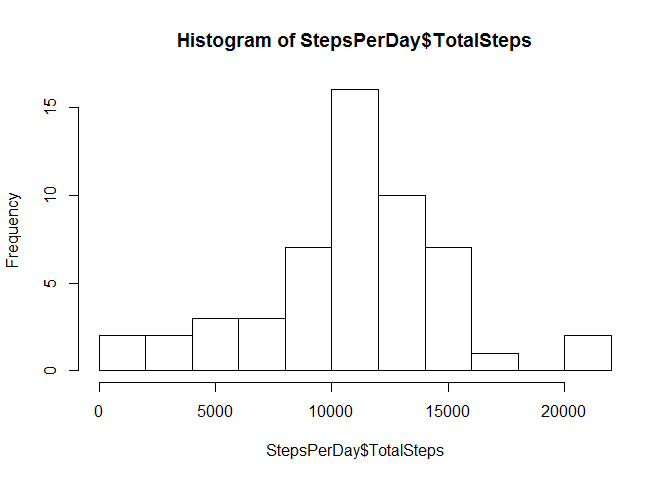
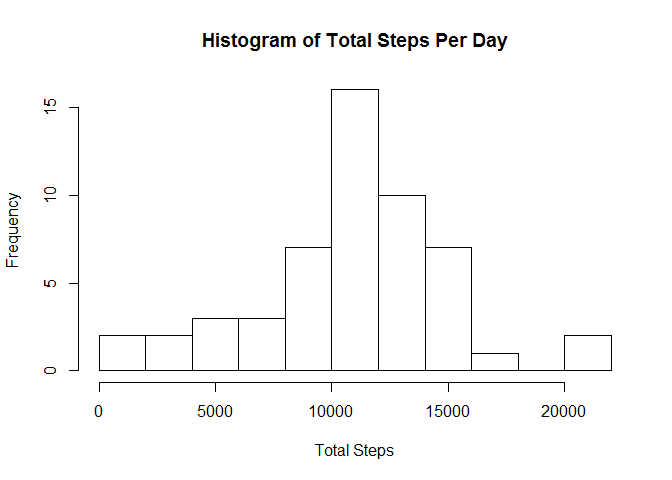
Assignment Submission 1

Changed region(s): [[0.25, 0.0625, 0.8125, 0.125], [0.4062, 0.9062, 0.6562, 0.9688]]

diff --git a/PA1_template.html b/PA1_template.html
@@ -67,7 +67,7 @@ img {
 <div id="loading-and-preprocessing-the-data" class="section level2">
 <h2>Loading and preprocessing the data</h2>
 <p>Prepare R Environment &amp; load necessary library</p>
-<pre class="r"><code>#library(data.table)
+<pre class="r"><code>library(ggplot2)
 library(dplyr)</code></pre>
 <pre><code>## Warning: package 'dplyr' was built under R version 3.2.1</code></pre>
 <pre><code>## 
@@ -81,9 +81,7 @@ library(dplyr)</code></pre>
 ## 
 ##     intersect, setdiff, setequal, union</code></pre>
 <p>The source data is loaded into a data frame ‘data’ for futher analysis</p>
-<pre class="r"><code>#setwd(&quot;c:/coursera&quot;)
-data &lt;- read.csv(&quot;activity.csv&quot;)
-#data &lt;- data.table(data)</code></pre>
+<pre class="r"><code>data &lt;- read.csv(&quot;activity.csv&quot;)</code></pre>
 <p>Explore the data frame to have a feel of the data</p>
 <pre class="r"><code>str(data)</code></pre>
 <pre><code>## 'data.frame':    17568 obs. of  3 variables:
@@ -105,17 +103,17 @@ data &lt;- read.csv(&quot;activity.csv&quot;)
 <div id="what-is-mean-total-number-of-steps-taken-per-day" class="section level2">
 <h2>What is mean total number of steps taken per day?</h2>
 <p>Total number of steps per day</p>
-<pre class="r"><code>StepsPerDay &lt;- data %&gt;% group_by(date) %&gt;% summarise(TotalSteps=sum(steps))
-hist(StepsPerDay$TotalSteps, breaks = 10)</code></pre>
[1 lines of base64/hex data omitted]
+<pre class="r"><code>StepsPerDay &lt;- data %&gt;% 
+                group_by(date) %&gt;% 
+                summarise(TotalSteps=sum(steps))
+
+hist(StepsPerDay$TotalSteps, breaks = 10,xlab='Total Steps',main='Histogram of Total Steps Per Day')</code></pre>
[1 lines of base64/hex data omitted]
 <p>Mean &amp; Median Number of Steps taken</p>
-<pre class="r"><code>mean(StepsPerDay$steps, na.rm = TRUE)</code></pre>
-<pre><code>## Warning in mean.default(StepsPerDay$steps, na.rm = TRUE): argument is not
-## numeric or logical: returning NA</code></pre>
-<pre><code>## [1] NA</code></pre>
-<pre class="r"><code>median(StepsPerDay$steps, na.rm = TRUE)</code></pre>
-<pre><code>## Warning in is.na(x): is.na() applied to non-(list or vector) of type 'NULL'</code></pre>
-<pre><code>## NULL</code></pre>
+<pre class="r"><code>mean(StepsPerDay$TotalSteps, na.rm = TRUE)</code></pre>
+<pre><code>## [1] 10766.19</code></pre>
+<pre class="r"><code>median(StepsPerDay$TotalSteps, na.rm = TRUE)</code></pre>
+<pre><code>## [1] 10765</code></pre>
 </div>
 <div id="what-is-the-average-daily-activity-pattern" class="section level2">
 <h2>What is the average daily activity pattern?</h2>
@@ -124,8 +122,8 @@ hist(StepsPerDay$TotalSteps, breaks = 10)</code></pre>
                     group_by(interval) %&gt;%
                     summarise(AverageSteps=mean(steps,na.rm=T),TotalSteps=sum(steps,na.rm=T))
 
-with(StepsPerInterval,plot(interval,AverageSteps, type = 'l'))</code></pre>
[1 lines of base64/hex data omitted]
+with(StepsPerInterval,plot(interval,AverageSteps, type = 'l', xlab='Interval', ylab='Average Steps', main='Average Steps for 5 Minutes Interval'))</code></pre>
[1 lines of base64/hex data omitted]
 <p>Interval with highest number of steps</p>
 <pre class="r"><code>StepsPerInterval[which.max(StepsPerInterval$TotalSteps),1]</code></pre>
 <pre><code>## Source: local data frame [1 x 1]
@@ -143,18 +141,40 @@ with(StepsPerInterval,plot(interval,AverageSteps, type = 'l'))</code></pre>
             inner_join(StepsPerInterval,by='interval') %&gt;%
             mutate(NewSteps=ifelse(is.na(steps),round(AverageSteps),steps))</code></pre>
 <p>New Imputed dataset</p>
-<pre class="r"><code>Impute &lt;- Impute[,c(2,3,5)]
+<pre class="r"><code>Impute &lt;- Impute[,c(2,3,6)]
 summary(Impute)</code></pre>
-<pre><code>##       date               interval        TotalSteps     
-##  Min.   :2012-10-01   Min.   :   0.0   Min.   :    0.0  
-##  1st Qu.:2012-10-16   1st Qu.: 588.8   1st Qu.:  131.8  
-##  Median :2012-10-31   Median :1177.5   Median : 1808.0  
-##  Mean   :2012-10-31   Mean   :1177.5   Mean   : 1981.3  
-##  3rd Qu.:2012-11-15   3rd Qu.:1766.2   3rd Qu.: 2800.2  
-##  Max.   :2012-11-30   Max.   :2355.0   Max.   :10927.0</code></pre>
+<pre><code>##       date               interval         NewSteps     
+##  Min.   :2012-10-01   Min.   :   0.0   Min.   :  0.00  
+##  1st Qu.:2012-10-16   1st Qu.: 588.8   1st Qu.:  0.00  
+##  Median :2012-10-31   Median :1177.5   Median :  0.00  
+##  Mean   :2012-10-31   Mean   :1177.5   Mean   : 37.38  
+##  3rd Qu.:2012-11-15   3rd Qu.:1766.2   3rd Qu.: 27.00  
+##  Max.   :2012-11-30   Max.   :2355.0   Max.   :806.00</code></pre>
+<p>Total Steps per day (Imputed dataset)</p>
+<pre class="r"><code>ImputePerDay &lt;- Impute %&gt;% 
+                group_by(date) %&gt;% 
+                summarise(NewTotalSteps=sum(NewSteps))
+
+hist(ImputePerDay$NewTotalSteps, breaks=10, xlab='Total Steps', main='Histogram of Total Steps Per Day (Imputed Dataset)')</code></pre>
[1 lines of base64/hex data omitted]
+<p>Mean &amp; Median Number of Steps taken (Imputed dataset)</p>
+<pre class="r"><code>mean(ImputePerDay$NewTotalSteps, na.rm = TRUE)</code></pre>
+<pre><code>## [1] 10765.64</code></pre>
+<pre class="r"><code>median(ImputePerDay$NewTotalSteps, na.rm = TRUE)</code></pre>
+<pre><code>## [1] 10762</code></pre>
 </div>
 <div id="are-there-differences-in-activity-patterns-between-weekdays-and-weekends" class="section level2">
 <h2>Are there differences in activity patterns between weekdays and weekends?</h2>
+<p>Label the dates with Weekday &amp; Weekend</p>
+<pre class="r"><code>Impute$Days &lt;- weekdays(Impute$date)
+Impute$Days &lt;- ifelse(Impute$Days=='Sunday'|Impute$Days=='Saturday','weekend','weekday')
+
+AvgImpute &lt;- Impute %&gt;% 
+                group_by(Days, interval) %&gt;%
+                summarise(TotalSteps=sum(NewSteps),AvgSteps=mean(NewSteps))</code></pre>
+<p>Time Series Plot</p>
+<pre class="r"><code>ggplot(AvgImpute, aes(interval,AvgSteps)) + geom_line() + facet_wrap(~Days,2,1) + ggtitle(&quot;Avarage Steps Taken\n(For Weekday &amp; Weekend)&quot;)</code></pre>
[1 lines of base64/hex data omitted]
 </div>
 
 

diff --git a/PA1_template.md b/PA1_template.md
@@ -5,7 +5,7 @@
 Prepare R Environment & load necessary library
 
 ```r
-#library(data.table)
+library(ggplot2)
 library(dplyr)
 ```
 
@@ -29,9 +29,7 @@ library(dplyr)
 The source data is loaded into a data frame 'data' for futher analysis
 
 ```r
-#setwd("c:/coursera")
 data <- read.csv("activity.csv")
-#data <- data.table(data)
 ```
 
 Explore the data frame to have a feel of the data
@@ -72,8 +70,11 @@ data$date <- as.Date(data$date)
 Total number of steps per day
 
 ```r
-StepsPerDay <- data %>% group_by(date) %>% summarise(TotalSteps=sum(steps))
-hist(StepsPerDay$TotalSteps, breaks = 10)
+StepsPerDay <- data %>% 
+                group_by(date) %>% 
+                summarise(TotalSteps=sum(steps))
+
+hist(StepsPerDay$TotalSteps, breaks = 10,xlab='Total Steps',main='Histogram of Total Steps Per Day')
 ```
 
 ![](PA1_template_files/figure-html/unnamed-chunk-5-1.png) 
@@ -81,28 +82,19 @@ hist(StepsPerDay$TotalSteps, breaks = 10)
 Mean & Median Number of Steps taken
 
 ```r
-mean(StepsPerDay$steps, na.rm = TRUE)
+mean(StepsPerDay$TotalSteps, na.rm = TRUE)
 ```
 
 ```
-## Warning in mean.default(StepsPerDay$steps, na.rm = TRUE): argument is not
-## numeric or logical: returning NA
-```
-
-```
-## [1] NA
+## [1] 10766.19
 ```
 
 ```r
-median(StepsPerDay$steps, na.rm = TRUE)
+median(StepsPerDay$TotalSteps, na.rm = TRUE)
 ```
 
 ```
-## Warning in is.na(x): is.na() applied to non-(list or vector) of type 'NULL'
-```
-
-```
-## NULL
+## [1] 10765
 ```
 
 ## What is the average daily activity pattern?
@@ -113,7 +105,7 @@ StepsPerInterval <- data %>%
                     group_by(interval) %>%
                     summarise(AverageSteps=mean(steps,na.rm=T),TotalSteps=sum(steps,na.rm=T))
 
-with(StepsPerInterval,plot(interval,AverageSteps, type = 'l'))
+with(StepsPerInterval,plot(interval,AverageSteps, type = 'l', xlab='Interval', ylab='Average Steps', main='Average Steps for 5 Minutes Interval'))
 ```
 
 ![](PA1_template_files/figure-html/unnamed-chunk-7-1.png) 
@@ -153,19 +145,66 @@ Impute <- data %>%
 New Imputed dataset
 
 ```r
-Impute <- Impute[,c(2,3,5)]
+Impute <- Impute[,c(2,3,6)]
 summary(Impute)
 ```
 
 ```
-##       date               interval        TotalSteps     
-##  Min.   :2012-10-01   Min.   :   0.0   Min.   :    0.0  
-##  1st Qu.:2012-10-16   1st Qu.: 588.8   1st Qu.:  131.8  
-##  Median :2012-10-31   Median :1177.5   Median : 1808.0  
-##  Mean   :2012-10-31   Mean   :1177.5   Mean   : 1981.3  
-##  3rd Qu.:2012-11-15   3rd Qu.:1766.2   3rd Qu.: 2800.2  
-##  Max.   :2012-11-30   Max.   :2355.0   Max.   :10927.0
+##       date               interval         NewSteps     
+##  Min.   :2012-10-01   Min.   :   0.0   Min.   :  0.00  
+##  1st Qu.:2012-10-16   1st Qu.: 588.8   1st Qu.:  0.00  
+##  Median :2012-10-31   Median :1177.5   Median :  0.00  
+##  Mean   :2012-10-31   Mean   :1177.5   Mean   : 37.38  
+##  3rd Qu.:2012-11-15   3rd Qu.:1766.2   3rd Qu.: 27.00  
+##  Max.   :2012-11-30   Max.   :2355.0   Max.   :806.00
 ```
 
+Total Steps per day (Imputed dataset)
+
+```r
+ImputePerDay <- Impute %>% 
+                group_by(date) %>% 
+                summarise(NewTotalSteps=sum(NewSteps))
+
+hist(ImputePerDay$NewTotalSteps, breaks=10, xlab='Total Steps', main='Histogram of Total Steps Per Day (Imputed Dataset)')
+```
+
+![](PA1_template_files/figure-html/unnamed-chunk-12-1.png) 
+
+Mean & Median Number of Steps taken (Imputed dataset)
+
+```r
+mean(ImputePerDay$NewTotalSteps, na.rm = TRUE)
+```
+
+```
+## [1] 10765.64
+```
+
+```r
+median(ImputePerDay$NewTotalSteps, na.rm = TRUE)
+```
+
+```
+## [1] 10762
+```
 
 ## Are there differences in activity patterns between weekdays and weekends?
+Label the dates with Weekday & Weekend
+
+```r
+Impute$Days <- weekdays(Impute$date)
+Impute$Days <- ifelse(Impute$Days=='Sunday'|Impute$Days=='Saturday','weekend','weekday')
+
+AvgImpute <- Impute %>% 
+                group_by(Days, interval) %>%
+                summarise(TotalSteps=sum(NewSteps),AvgSteps=mean(NewSteps))
+```
+
+Time Series Plot
+
+```r
+ggplot(AvgImpute, aes(interval,AvgSteps)) + geom_line() + facet_wrap(~Days,2,1) + ggtitle("Avarage Steps Taken\n(For Weekday & Weekend)")
+```
+
+![](PA1_template_files/figure-html/unnamed-chunk-15-1.png) 
